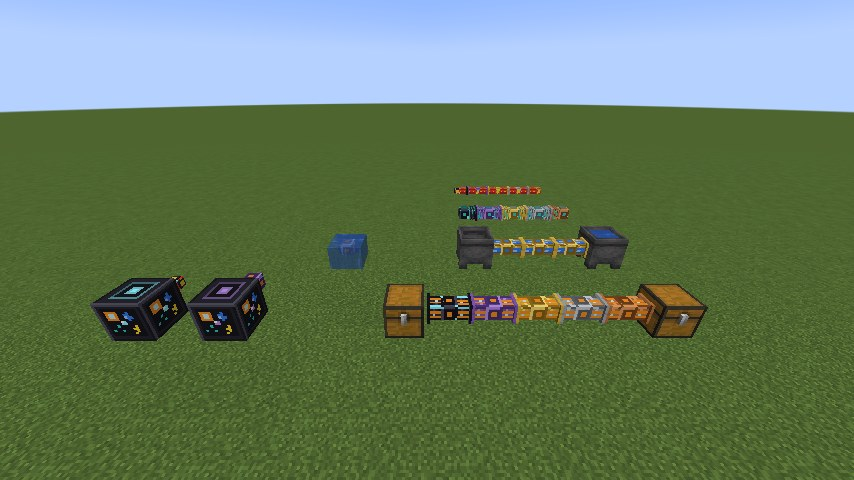
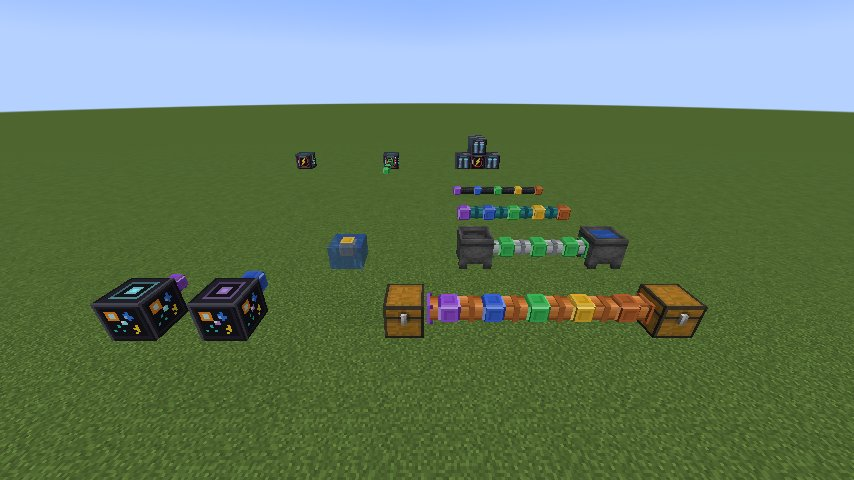
Document Pipster 1.3.0 release
Update the README, API guide, and issue templates for Pipster 1.3.0, including supported versions, new pipe visuals, and the live port status update. Refresh screenshots for the release.

diff --git a/README.md b/README.md
@@ -18,10 +18,11 @@
   <a href="#license">License</a>
 </p>
 
-> **Version 1.2.0.** For Minecraft 1.21.1 to 26.3 on Fabric and NeoForge; see
-> [Version status](#version-status). New: the Singularity Energy Cable, a creative-only energy cable,
-> a filter field with suggestions for fluid and gas pipes, and less server time per tick. Worlds from
-> 1.1.0 and 1.0.0 load without changes, and mods built against the Pipster API keep working.
+> **Version 1.3.0.** For Minecraft 1.21.1, 1.21.11, 26.1.2, 26.2 and 26.3 on Fabric and NeoForge; see
+> [Version status](#version-status). New: a new look for all pipes and cables (the tube shows the kind, the
+> node and flange show the tier), and the port screen's status line now updates while it is open. Worlds from
+> 1.2.0 load without changes, and mods built against the Pipster API keep working. For other Minecraft
+> versions, Pipster 1.2.0 stays available.
 
 This repository holds the documentation, the [wiki](../../wiki), the [issue tracker](../../issues) and the
 [API for mod developers](api/README.md). The mod itself is downloaded from Modrinth or CurseForge. Pipster is not
@@ -53,22 +54,31 @@ like a pipe (no full blocks), and everything you configure lives directly at the
 <a id="pipes-and-tiers"></a>
 ![Pipes and Tiers](images/headers/tiers.png)
 
+**How to recognise them (new look in 1.3.0):** the tube shows the kind, the node and the flange show the tier.
+
+* **Item pipe:** square copper tube. **Fluid pipe:** round iron-grey tube. **Gas pipe:** round petrol (dark teal)
+  tube. **Energy cable:** narrower square anthracite cable with fine insulation rings.
+* The **node** is the chamfered cube in the middle; it and the flange have the tier colour (table below).
+* A **flange with four bolts** only where a pipe meets a machine; between two pipes a slim coupling; open sides show
+  only the node. Pipes stay narrow, never full blocks, and the hitbox follows the pipe.
+* Throughput, tiers, recipes and behaviour did not change with the new look.
+
 Rates are per pipe segment and tick, shared by all transfers through that segment. They are balance values, not
 measured results.
 
-| Tier | Items/t | Fluid mB/t | Gas units/t | Energy E/t | Item batch |
-|---|---:|---:|---:|---:|---:|
-| T1 Copper | 2 | 100 | 100 | 1,000 | 8 |
-| T2 Reinforced | 8 | 400 | 400 | 8,000 | 32 |
-| T3 Precision | 32 | 1,600 | 1,600 | 64,000 | 64 |
-| T4 Resonant | 128 | 6,400 | 6,400 | 512,000 | 256 |
-| T5 Quantum | 512 | 25,600 | 25,600 | 4,096,000 | 1,024 |
-| T6 Singularity (energy only) | – | – | – | 32,768,000 | – |
-| Supercalifragilisticexpialidocious Energy Cable (creative only) | – | – | – | 1,000,000,000,000 | – |
+| Tier | Node and flange | Items/t | Fluid mB/t | Gas units/t | Energy E/t | Item batch |
+|---|---|---:|---:|---:|---:|---:|
+| T1 Copper | copper | 2 | 100 | 100 | 1,000 | 8 |
+| T2 Reinforced | gold | 8 | 400 | 400 | 8,000 | 32 |
+| T3 Precision | emerald green | 32 | 1,600 | 1,600 | 64,000 | 64 |
+| T4 Resonant | lapis blue | 128 | 6,400 | 6,400 | 512,000 | 256 |
+| T5 Quantum | amethyst purple | 512 | 25,600 | 25,600 | 4,096,000 | 1,024 |
+| T6 Singularity (energy only) | redstone red | – | – | – | 32,768,000 | – |
+| Supercalifragilisticexpialidocious Energy Cable (creative only) | magenta, white bolts | – | – | – | 1,000,000,000,000 | – |
 
-* **Singularity Energy Cable (new in 1.2.0):** eight times the Quantum cable, energy only. Upgrade Quantum Energy
+* **Singularity Energy Cable (since 1.2.0):** eight times the Quantum cable, energy only. Upgrade Quantum Energy
   Cables with a Singularity Upgrade Bolt or by crafting.
-* **Supercalifragilisticexpialidocious Energy Cable (new in 1.2.0):** creative mode only. No recipe, no upgrade path,
+* **Supercalifragilisticexpialidocious Energy Cable (since 1.2.0):** creative mode only. No recipe, no upgrade path,
   and it drops nothing when broken (energy buffered in it is lost). Machines of other mods still decide how much
   they accept.
 
@@ -77,7 +87,7 @@ measured results.
 
 * **Right-click a port:** mode (insert, extract, both, off), redstone control, priority, distribution (round robin,
   nearest first, sticky). The status line says why nothing moves, for example "Machine only gives: set this port
-  to Extract".
+  to Extract". Since 1.3.0 it updates while the screen is open.
 * **Accept port (new in 1.1.0):** a side next to a block that pushes but offers no storage of its own (AE2 Export
   Bus, Create funnels, Oritech item and fluid pipes) can be set to **Accept**. It takes what the block pushes in and
   never pulls.
@@ -97,7 +107,7 @@ measured results.
 
 Patterns are ghost items: nothing is used up.
 
-**New in 1.2.0:** fluid and gas pipes have a filter field with suggestions. Type a name or an id and pick a fluid,
+**Since 1.2.0:** fluid and gas pipes have a filter field with suggestions. Type a name or an id and pick a fluid,
 gas or (with Mekanism on NeoForge 1.21.1) chemical from the list; no filled container needed. `#` lists the tags of
 the pipe's type, "Everything from <mod>" covers a whole mod, and entries with the same name show their mod in
 brackets. The server checks that every entry fits the pipe.
@@ -178,13 +188,14 @@ content mod.
 Mod developers find the exact interfaces per version in the [API documentation](api/README.md).
 
 **Tested with the real mods** (dedicated server, client and all game tests; the game tests also send items, fluids
-and energy through real blocks of these mods and back, and check that nothing is lost or created):
+and energy through real blocks of these mods and back, and check that nothing is lost or created). The table shows
+the runs with the 1.3.0 files (release check 2026-11-08; same result as 1.2.0 on these Minecraft versions).
 
 | Mod | Where | What is checked |
 |---|---|---|
-| Storage Drawers | 1.21.1 – 26.3, both loaders | drawers and compacting drawers (no duplication) |
-| Sophisticated Storage | NeoForge 1.21.1 – 26.3; Fabric 1.21.1 (unofficial port) | barrels |
-| Energized Power | 1.21.1 – 26.3, both loaders | battery box, fluid tank |
+| Storage Drawers | all five versions, both loaders | drawers and compacting drawers (no duplication) |
+| Sophisticated Storage | NeoForge, all five versions; Fabric 1.21.1 (unofficial port) | barrels |
+| Energized Power | all five versions, both loaders | battery box, fluid tank |
 | Oritech | 1.21.1 both loaders; NeoForge 26.1.2 (beta) | energy storage, tank |
 | Powah! | NeoForge 1.21.1; 26.1.2 (alpha) | energy cell |
 | Mekanism | NeoForge 1.21.1 | energy cube, fluid tank, chemicals through gas pipes |
@@ -192,8 +203,8 @@ and energy through real blocks of these mods and back, and check that nothing is
 | Applied Energistics 2 | NeoForge 1.21.1 (with Applied Mekanistics), 26.1.2 – 26.3 | starts and runs together |
 | Immersive Machinery | 1.21.1, 26.1.2, 26.2, both loaders | starts and runs together (it has no blocks to connect) |
 
-"Where" lists the Minecraft versions on which the run was made; not every version in a range has a run. That is not
-a promise that every mod or every block works; please [report problems](#reporting-bugs).
+"Where" lists the Minecraft versions on which the run was made. That is not a promise that every mod or every block
+works; please [report problems](#reporting-bugs).
 
 What else to know:
 
@@ -226,40 +237,39 @@ The Conduit Wrench is also tagged `c:tools/wrench`, so other mods recognise it a
 <a id="version-status"></a>
 ![Version Status](images/headers/versions.png)
 
-Some jars cover several Minecraft versions; such a jar is started and tested unchanged on **every** version it
-lists before it is released.
+Pipster 1.3.0 has one jar per Minecraft version and loader; no jar covers several Minecraft versions.
 
 | Minecraft | Fabric jar | NeoForge jar |
 |---|---|---|
-| 1.21.1 | `pipster-1.2.0+mc1.21.1-fabric.jar` | `pipster-1.2.0+mc1.21.1-neoforge.jar` |
-| 1.21.2 – 1.21.4 | `pipster-1.2.0+mc1.21.2-1.21.4-fabric.jar` | `pipster-1.2.0+mc1.21.2-1.21.4-neoforge.jar` ¹ |
-| 1.21.5 | `pipster-1.2.0+mc1.21.5-fabric.jar` | `pipster-1.2.0+mc1.21.5-neoforge.jar` |
-| 1.21.6 – 1.21.8 | `pipster-1.2.0+mc1.21.6-1.21.8-fabric.jar` | `pipster-1.2.0+mc1.21.6-1.21.8-neoforge.jar` ¹ |
-| 1.21.9 | `pipster-1.2.0+mc1.21.9-1.21.10-fabric.jar` | `pipster-1.2.0+mc1.21.9-neoforge.jar` ¹ |
-| 1.21.10 | `pipster-1.2.0+mc1.21.9-1.21.10-fabric.jar` | `pipster-1.2.0+mc1.21.10-neoforge.jar` |
-| 1.21.11 | `pipster-1.2.0+mc1.21.11-fabric.jar` | `pipster-1.2.0+mc1.21.11-neoforge.jar` |
-| 26.1, 26.1.1 | `pipster-1.2.0+mc26.1-26.1.2-fabric.jar` | `pipster-1.2.0+mc26.1-26.1.1-neoforge.jar` ¹ |
-| 26.1.2 | `pipster-1.2.0+mc26.1-26.1.2-fabric.jar` | `pipster-1.2.0+mc26.1.2-neoforge.jar` ² |
-| 26.2 | `pipster-1.2.0+mc26.2-fabric.jar` | `pipster-1.2.0+mc26.2-neoforge.jar` ² |
-| 26.3 | `pipster-1.2.0+mc26.3-fabric.jar` | `pipster-1.2.0+mc26.3-neoforge.jar` ² |
+| 1.21.1 | `pipster-1.3.0+mc1.21.1-fabric.jar` | `pipster-1.3.0+mc1.21.1-neoforge.jar` |
+| 1.21.11 | `pipster-1.3.0+mc1.21.11-fabric.jar` | `pipster-1.3.0+mc1.21.11-neoforge.jar` |
+| 26.1.2 | `pipster-1.3.0+mc26.1.2-fabric.jar` | `pipster-1.3.0+mc26.1.2-neoforge.jar` ¹ |
+| 26.2 | `pipster-1.3.0+mc26.2-fabric.jar` | `pipster-1.3.0+mc26.2-neoforge.jar` ¹ |
+| 26.3 | `pipster-1.3.0+mc26.3-fabric.jar` | `pipster-1.3.0+mc26.3-neoforge.jar` ¹ |
 
-¹ For these Minecraft versions NeoForge only had beta builds on the test date (1.21.2, 1.21.6, 1.21.7, 1.21.9, 26.1,
-26.1.1). The jar was tested with that beta.<br>
-² Needs at least NeoForge 26.1.2.122, 26.2.0.93 or 26.3.0.97 (since 1.1.0; current partner mods need these builds).
+¹ Needs at least NeoForge 26.1.2.122, 26.2.0.93 or 26.3.0.97 (since 1.1.0; current partner mods need these builds).
 
-"Tested" means, for every listed version: client and dedicated server started, and all automated game tests passed
-(item, fluid, energy and gas transport, throughput limits, filters, tesseracts, the pulse amplifier, claims and
-teams, break/place with stored contents, save/load, network packet checks), on both loaders. The integrations and
-partner mods above were started with the real mods on every version where those exist. On top of that, every row is
-played by hand before the release. The exact loader versions are listed in the wiki under
-[Supported Versions](../../wiki/Supported-Versions).
+**Other Minecraft versions** (1.21.2 – 1.21.10, 26.1, 26.1.1): use Pipster 1.2.0. It stays available and keeps
+working. Builds for further versions only come back if enough players ask for them in the
+[issue tracker](../../issues).
+
+Before a jar is released, it is tested on its Minecraft version: client and dedicated server started, and all
+automated game tests (item, fluid, energy and gas transport, throughput limits, filters, tesseracts, the pulse
+amplifier, claims and teams, break/place with stored contents, save/load, network packet checks), plus runs with the
+integrations and partner mods above wherever those exist.
+All ten 1.3.0 files passed this release check on 2026-11-08: 188 runs passed, none failed; 12 runs could not take place for reasons outside Pipster (Open Parties and Claims cannot start on a game-test server and is checked on the dedicated server instead; CC: Tweaked 1.120.3 does not start on NeoForge 26.3).
+The exact loader versions are listed in the wiki under [Supported Versions](../../wiki/Supported-Versions).
 
 <a id="performance"></a>
 ![Performance](images/headers/performance.png)
 
 Pipster does no work per pipe per tick. It keeps one transport graph per dimension and resource type on the server,
-rebuilds it in bounded steps, and never loads chunks. Measured for 1.1.0 on an Intel Core i7-13700H (dedicated
-server, Minecraft 1.21.1 and 26.3, both loaders):
+rebuilds it in bounded steps, and never loads chunks.
+
+**1.3.0 was not measured again:** it only changes models, textures and the refresh of the port screen; the transport
+code did not change in a way that matters for performance. All numbers below were measured with older versions.
+
+Measured for 1.1.0 on an Intel Core i7-13700H (dedicated server, Minecraft 1.21.1 and 26.3, both loaders):
 
 | Scene | Pipster time per tick (p95) |
 |---|---|
@@ -291,7 +301,7 @@ Please download Pipster only from these pages. Pick the file for your exact Mine
 Please open an [issue](../../issues/new/choose) with:
 
 * Minecraft version, loader (Fabric/NeoForge) and loader version
-* the Pipster jar name (it contains the Minecraft version or range)
+* the Pipster jar name (it contains the Pipster and Minecraft version)
 * the other mods involved, if the problem is with a specific machine
 * `logs/latest.log`, and a crash report if there is one
 

diff --git a/api/README.md b/api/README.md
@@ -41,21 +41,25 @@ API and to publish mods that use it. It does not allow modifying or redistributi
 
 ## 1. Interfaces Pipster uses
 
-| Resource | Fabric (all versions) | NeoForge 1.21.1 – 1.21.8 | NeoForge 1.21.9 – 1.21.11 and 26.x |
+| Resource | Fabric (all versions) | NeoForge 1.21.1 | NeoForge 1.21.11 and 26.x |
 |---|---|---|---|
 | Items | `ItemStorage.SIDED` (`Storage<ItemVariant>`) | `Capabilities.ItemHandler.BLOCK` (`IItemHandler`) | `Capabilities.Item.BLOCK` (`ResourceHandler<ItemResource>`) |
 | Fluids | `FluidStorage.SIDED` (`Storage<FluidVariant>`) | `Capabilities.FluidHandler.BLOCK` (`IFluidHandler`) | `Capabilities.Fluid.BLOCK` (`ResourceHandler<FluidResource>`) |
 | Energy | Team Reborn Energy `EnergyStorage.SIDED` | `Capabilities.EnergyStorage.BLOCK` (`IEnergyStorage`) | `Capabilities.Energy.BLOCK` (`EnergyHandler`) |
 | Gas | Pipster `GasHandler` via `BlockApiLookup` | Pipster `GasHandler` via `BlockCapability` | Pipster `GasHandler` via `BlockCapability` |
 
-Team Reborn Energy versions Pipster was tested with: 4.1.0 (1.21.1–1.21.4), 4.2.0
-(1.21.5–1.21.11), 5.0.0 (26.x).
+Pipster 1.3.0 is made for Minecraft 1.21.1, 1.21.11, 26.1.2, 26.2 and 26.3. Pipster 1.2.0 also covers
+1.21.2 – 1.21.10, 26.1 and 26.1.1: there, NeoForge 1.21.2 – 1.21.8 uses the interfaces of the 1.21.1 column and
+NeoForge 1.21.9 and 1.21.10 those of the last column.
+
+Team Reborn Energy versions Pipster was tested with: 4.1.0 (1.21.1), 4.2.0 (1.21.11), 5.0.0 (26.x);
+Pipster 1.2.0 also 4.1.0 (1.21.2–1.21.4) and 4.2.0 (1.21.5–1.21.10).
 
 ### Semantics Pipster relies on
 
 * **Transactional APIs** (Fabric Transfer API, NeoForge `ResourceHandler`/`EnergyHandler`):
   Pipster plans a transfer in a nested transaction and commits exactly once.
-* **Simulate/execute APIs** (NeoForge `IItemHandler` etc. up to 1.21.8, Pipster `GasHandler`):
+* **Simulate/execute APIs** (NeoForge `IItemHandler` etc. on 1.21.1, Pipster `GasHandler`):
   simulations are only a hint. Pipster extracts into a buffer it owns, then inserts. Anything
   left over goes back to the source or stays in the buffer. It is never deleted.
 * **Quarantine:** handlers that return more than requested, hand out something other than
@@ -127,8 +131,8 @@ A gas pipe network carries exactly one gas domain at a time. The first successfu
   Mekanism's own `mekanism:chemical_handler` capability. Nothing to do for mod developers; Mekanism
   blocks and blocks that offer that capability work directly.
 
-Pipster never converts between domains, even for identical ids. The API is unchanged in 1.1.0:
-mods built against `pipster-api-1` keep working.
+Pipster never converts between domains, even for identical ids. The API is unchanged in 1.1.0, 1.2.0
+and 1.3.0: mods built against `pipster-api-1` keep working.
 
 ## 3. Endpoint providers
 
